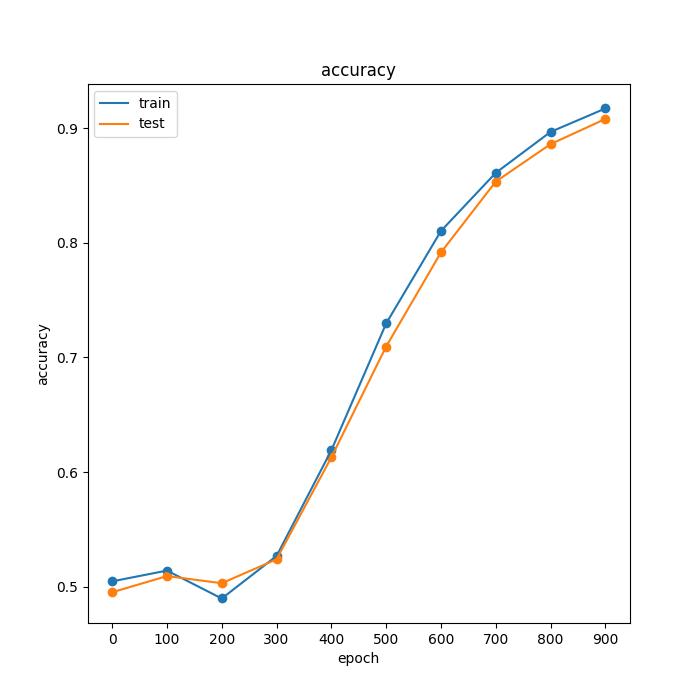
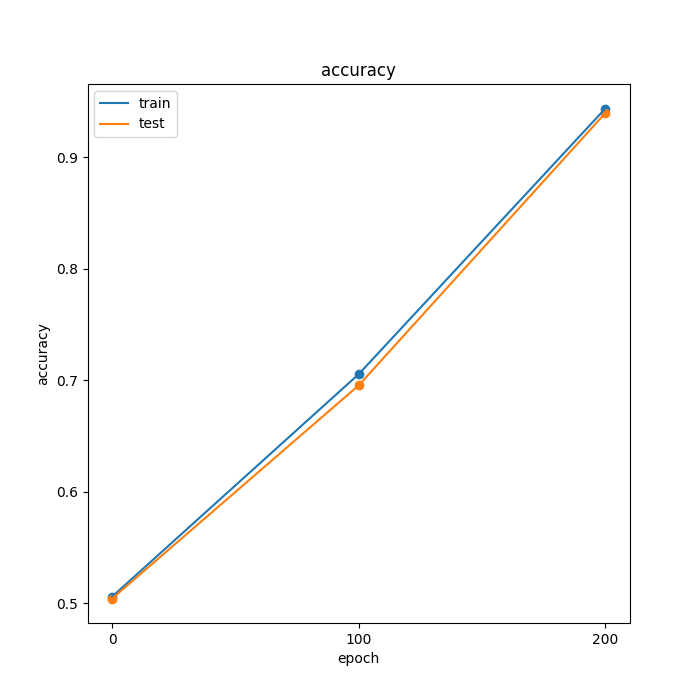
BNN corrected and use minibatch SGD

diff --git a/hw5_BNN.py b/hw5_BNN.py
@@ -14,9 +14,9 @@ NUM_POSTERIOR_SAMPLES = 1000
 
 '''
  result: 
-    max train accuracy:  0.93828005
-    max test accuracy:  0.93263996
-    within 1000 epochs
+    max train accuracy:  0.9635757
+    max test accuracy:  0.961684
+    within 200 epochs using a minibatch size of 100
 
 '''
 
@@ -108,22 +108,40 @@ class BNN(nn.Module):
         W2 = W[self.d*self.h:, :].T.reshape(num_samples, self.h,1)
         return W1, W2
     
+    # def old_kl_div(self, prior_mean, prior_cov):
+    #     '''
+    #     prior_mean: shape (total_num_weights,1)
+    #     prior_cov: shape (total_num_weights, total_num_weights), diagonal matrix (all weights are independent)
+
+    #     KL divergence between prior and approximate posterior KL(p||q)
+    #     '''
+    #     q_cov = self.cov_diagonal()
+    #     p_det = torch.prod(torch.diagonal(prior_cov))
+    #     q_det = torch.prod(torch.diagonal(q_cov))
+        
+    #     prior_cov_inv = torch.linalg.inv(prior_cov)
+    #     trace = 0.5*(torch.sum(torch.diagonal(torch.matmul(prior_cov_inv, q_cov))))
+    #     quadratic = 0.5*torch.matmul(torch.matmul((self.mu-prior_mean).T, prior_cov_inv), self.mu-prior_mean)
+        
+    #     return 0.5*torch.log(p_det)- 0.5*torch.log(q_det) - self.total_num_weights/2 + trace + quadratic
+    
     def kl_div(self, prior_mean, prior_cov):
         '''
         prior_mean: shape (total_num_weights,1)
         prior_cov: shape (total_num_weights, total_num_weights), diagonal matrix (all weights are independent)
 
-        KL divergence between prior and approximate posterior KL(p||q)
+        KL divergence between prior and approximate posterior KL(q||p)
         '''
         q_cov = self.cov_diagonal()
         p_det = torch.prod(torch.diagonal(prior_cov))
         q_det = torch.prod(torch.diagonal(q_cov))
         
         prior_cov_inv = torch.linalg.inv(prior_cov)
-        trace = 0.5*(torch.sum(torch.diagonal(torch.matmul(prior_cov_inv, q_cov))))
-        quadratic = 0.5*torch.matmul(torch.matmul((self.mu-prior_mean).T, prior_cov_inv), self.mu-prior_mean)
+        trace = torch.sum(torch.diagonal(torch.matmul(prior_cov_inv, q_cov)))
+        quadratic = torch.matmul(torch.matmul((self.mu-prior_mean).T, prior_cov_inv), self.mu-prior_mean)
         
-        return 0.5*torch.log(p_det)- 0.5*torch.log(q_det) - self.total_num_weights/2 + trace + quadratic
+        return (torch.log(p_det+1e-5) - torch.log(q_det+1e-5) - self.total_num_weights + trace + quadratic)*0.5
+        
         
     def variational_lower_bound(self, X, y, prior_mean, prior_cov, num_epsilon_samples=NUM_POSTERIOR_SAMPLES):
         '''
@@ -137,13 +155,13 @@ class BNN(nn.Module):
 
         out_prob = self.forward(X, W1, W2) #(num_samples, N,1)
         y = y.unsqueeze(0) #(1,N,1)
-        log_likelihoods = torch.sum(y*torch.log(out_prob+1e-6) + (1-y)*torch.log(1-out_prob+1e-6), dim=1) #(num_samples,1)
+        log_likelihoods = torch.sum(y*torch.log(out_prob+1e-5) + (1-y)*torch.log(1-out_prob+1e-5), dim=1) #(num_samples,1)
 
         expected_log_likelihood = torch.mean(log_likelihoods)
 
-        print("___expected_log_likelihood", expected_log_likelihood.item())
+        #print("___expected_log_likelihood", expected_log_likelihood.item())
 
-        return expected_log_likelihood + kl
+        return expected_log_likelihood - kl
 
     
 def test(test_data, model):
@@ -174,10 +192,7 @@ def train(train_data, test_data, model, prior_params, num_epochs, lr):
     for epoch in range(num_epochs):
         optimizer.zero_grad()
 
-        # print("mu: ", model.mu)
-        # print("p: ", model.p)
         loss = -model.variational_lower_bound(X, y, prior_mean, prior_cov)[0,0]
-        # print("kk", loss.shape)
 
         log_pred_ll, pred_ll, accuracy = test(test_data, model)
         print("loss", loss)
@@ -191,10 +206,76 @@ def train(train_data, test_data, model, prior_params, num_epochs, lr):
         loss.backward()
         optimizer.step()
 
-        if epoch%500==0:
+        if epoch%100==0:
             print(f"epoch: {epoch}, loss: {loss}")
             
     return model, train_log_pred_lls, train_accuracies, test_log_pred_lls, test_accuracies
+
+
+def train_minibatch(train_data, test_data, model, prior_params, num_epochs, lr, batch_size):
+    '''
+    train_data and test_data: list of [X,y]
+    model: BNN model
+    prior_params: [prior_mean, prior_cov]
+    num_epochs: int
+    lr: float
+    batch_size: size of each minibatch
+
+    return: trained model
+    '''
+    X, y = train_data
+    
+    N = len(X)
+    assert(batch_size<=N)
+    num_mini_batches = (int)(np.floor(N/batch_size))
+    is_divisible = (N%batch_size)==0
+    
+    prior_mean, prior_cov = prior_params
+    optimizer = optim.Adam(model.parameters(), lr=lr)
+    train_accuracies = []
+    train_log_pred_lls = []
+    test_accuracies = []
+    test_log_pred_lls = []
+    for epoch in range(num_epochs):
+        perm = np.random.permutation(N)
+        shuffled_X = X[perm]
+        shuffled_y = y[perm]
+        
+        for k in range(num_mini_batches):
+            mini_X = shuffled_X[batch_size*k:batch_size*(k+1), :]
+            mini_y = shuffled_y[batch_size*k:batch_size*(k+1), :]
+        
+            optimizer.zero_grad()
+            loss = -model.variational_lower_bound(mini_X, mini_y, prior_mean, prior_cov)[0,0]
+            
+            loss.backward()
+            optimizer.step()
+            
+        if not is_divisible:
+            mini_X = shuffled_X[batch_size*(num_mini_batches):, :]
+            mini_y = shuffled_y[batch_size*(num_mini_batches):, :]
+        
+            optimizer.zero_grad()
+            loss = -model.variational_lower_bound(mini_X, mini_y, prior_mean, prior_cov)[0,0]
+            
+            loss.backward()
+            optimizer.step()
+            
+
+        log_pred_ll, pred_ll, accuracy = test(test_data, model)
+        test_log_pred_lls.append(log_pred_ll)
+        test_accuracies.append(accuracy)
+
+        log_pred_ll, pred_ll, accuracy = test(train_data, model)
+        train_log_pred_lls.append(log_pred_ll)
+        train_accuracies.append(accuracy)
+
+        if epoch%10==0:
+            print(f"epoch: {epoch}, loss: {loss} train_acc:{train_accuracies[-1]} test_acc:{test_accuracies[-1]}")
+            
+    return model, train_log_pred_lls, train_accuracies, test_log_pred_lls, test_accuracies
+
+
 
 
 
@@ -203,13 +284,14 @@ def train(train_data, test_data, model, prior_params, num_epochs, lr):
 if __name__=="__main__":
     train_data = load_csv_data(data_path="data/bank-note/train.csv", preppend_one=True, remove_first_row=False)
     test_data = load_csv_data(data_path="data/bank-note/test.csv", preppend_one=True, remove_first_row=False)
-    num = 100
-    X_train = train_data[:num,:-1] #(N,5)
-    y_train = train_data[:num,-1].reshape((-1,1)) #(N,1)
-    X_test = test_data[:num,:-1] #(N,5)
-    y_test = test_data[:num,-1].reshape((-1,1)) #(N,1)
+    X_train = train_data[:,:-1] #(N,5)
+    y_train = train_data[:,-1].reshape((-1,1)) #(N,1)
+    X_test = test_data[:,:-1] #(N,5)
+    y_test = test_data[:,-1].reshape((-1,1)) #(N,1)
     
     N,d = X_train.shape
+    batch_size = 100
+    num_epochs = 300
 
     device="cpu"
     
@@ -220,16 +302,13 @@ if __name__=="__main__":
 
     data_train = [X_train, y_train]
     data_test = [X_test, y_test]
-    # hidden_dims = [10,20,50]
-    # activations = [torch.tanh, F.relu]
-    hidden_dims = [50]
-    activations = [F.relu]
+    
+    
+    hidden_dims = [50] # [10,20,50]
+    activations = [F.relu] # [torch.tanh, F.relu]
 
-    lr = 1e-3
-    #lr = 0.5e-3
-    #lr = 1e-4
-    #lr = 1e-5
-    epochs = [x for x in range(1000)]
+    lr = 1e-3 #0.5e-3 #1e-4 #1e-5
+    epochs = [x for x in range(num_epochs)]
     os.makedirs("./models", exist_ok=True)
     act_names = ["tanh", "relu"]
     for i, h in enumerate(hidden_dims):
@@ -238,8 +317,9 @@ if __name__=="__main__":
             model = BNN(in_dim=d, hidden_dim=h, activation=activation).to(device)
             prior_mean = torch.zeros(model.total_num_weights,1).to(device)
             prior_cov = torch.eye(model.total_num_weights).to(device)
-            trained_model, train_log_pred_lls, train_accuracies, test_log_pred_lls, test_accuracies = train(data_train, data_test, model, [prior_mean, prior_cov], num_epochs=1000, lr=lr)
-            torch.save(trained_model.state_dict(), f"./models/bnn_{i}_{j}")
+            # trained_model, train_log_pred_lls, train_accuracies, test_log_pred_lls, test_accuracies = train(data_train, data_test, model, [prior_mean, prior_cov], num_epochs=1000, lr=lr)
+            trained_model, train_log_pred_lls, train_accuracies, test_log_pred_lls, test_accuracies = train_minibatch(data_train, data_test, model, [prior_mean, prior_cov], num_epochs=len(epochs), lr=lr, batch_size=batch_size)
+            #torch.save(trained_model.state_dict(), f"./models/bnn_{i}_{j}")
             train_log_pred_lls = [x.cpu().detach().numpy() for x in train_log_pred_lls]
             test_log_pred_lls = [x.cpu().detach().numpy() for x in test_log_pred_lls]
             train_accuracies = [x.cpu().detach().numpy() for x in train_accuracies]
@@ -255,5 +335,20 @@ if __name__=="__main__":
             
             plot_xy_curves(epochs, ys_list=[train_log_pred_lls, test_log_pred_lls], labels_list=["train", "test"], xlim=None, ylim=None, x_label="epoch", y_label="log predictive likelihood", title="log predictive likelihood", path=f"./figures/hw5/BNN", name=f"nll_bnn_{i}_{j}", vis=False)
             plot_xy_curves(epochs, ys_list=[train_accuracies, test_accuracies], labels_list=["train", "test"], xlim=None, ylim=None, x_label="epoch", y_label="accuracy", title="accuracy", path=f"./figures/hw5/BNN", name=f"acc_bnn_{i}_{j}", vis=False)
-            
-           
+    
+    
+    
+    ## testing minbatch      
+    # a = np.array([[100,100], [200,200], [300,300], [400,400], [500,500]])
+    # N = len(a)
+    # batch_size = 2
+    # assert(batch_size<=N)
+    # perm = np.random.permutation(N)
+    # a = a[perm]
+    # num_mini_batches = (int)(np.floor(N/batch_size))
+    # print(num_mini_batches)
+    # for k in range(num_mini_batches):
+    #     print(a[batch_size*k:batch_size*(k+1), :])
+        
+    # if N%batch_size!=0:
+    #     print(a[batch_size*(num_mini_batches):, :])

diff --git a/README.md b/README.md
@@ -10,13 +10,13 @@ The Gaussian prior on each weight $w_i$ is $$q(w_i) = N(w_i|\mu_i*\log(1+\exp(p_
 The function to be maximized is the variational lower bound:
 ![var_low_bound](https://github.com/HoAdrian/BNN_basic/blob/main/images/var_low_bd.png)
 <!-- $$ L(w) = \sum_{n=1}^N E_{q(w)}\[\log(p(y_n|f_w(x_n)))\] - KL(q(w)||p(w))$$ -->
-where $f_w$ is the neural network. Since the dataset is pretty small, I did not split the dataset into minibatches. 
+where $f_w$ is the neural network. 
 
 
 
 # Result
-train accuracy:  0.93828005, 
-test accuracy:  0.93263996, 
-within 1000 epochs. 
+train accuracy: 0.9635757, 
+test accuracy:  0.961684, 
+within 200 epochs using a minibatch size of 100. 
 
 See the figures for visualization
